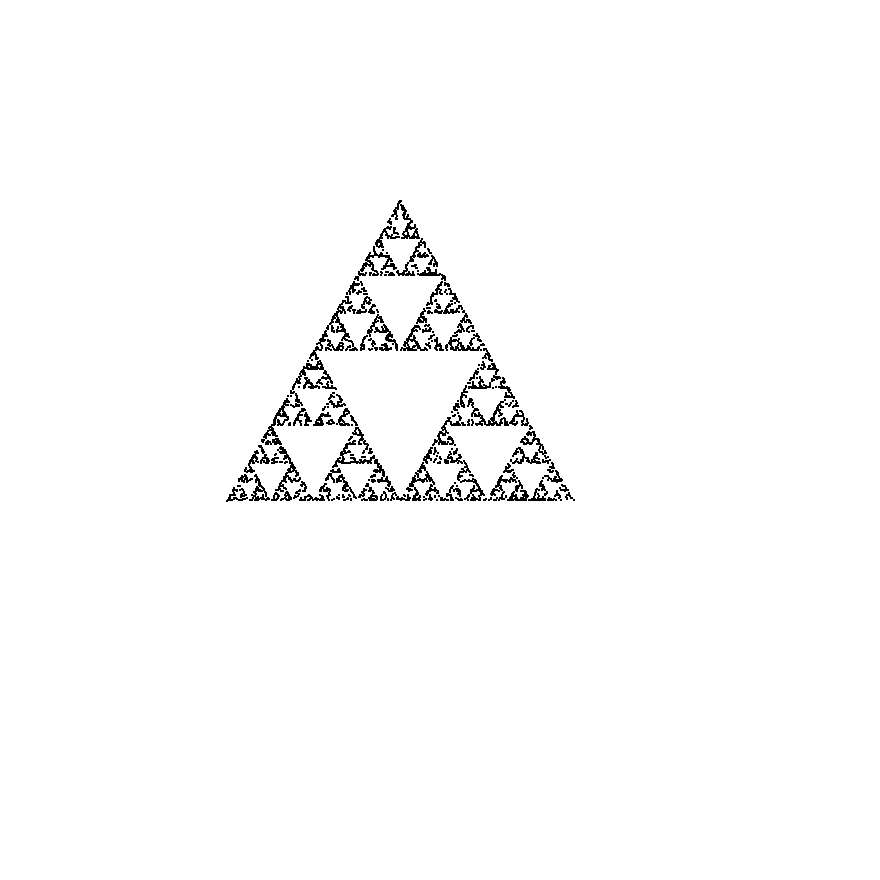
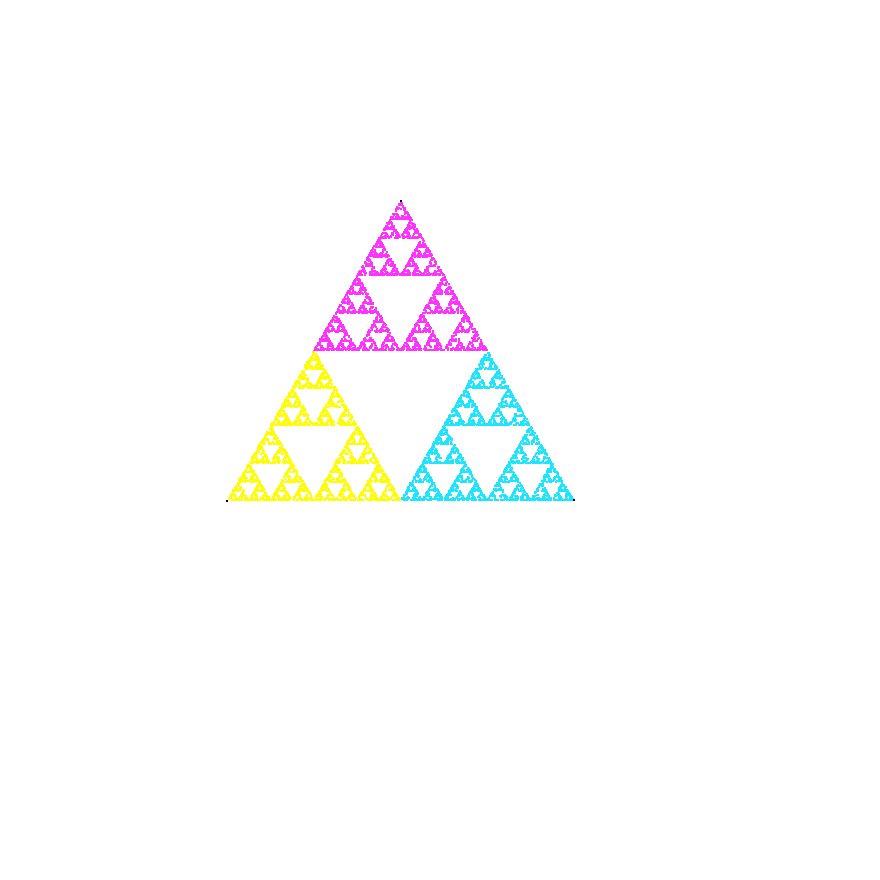
6/A in colors

Changed region(s): [[0.2455, 0.2148, 0.6443, 0.583]]

diff --git a/cviceni6/A.cpp b/cviceni6/A.cpp
@@ -8,15 +8,38 @@
 const int PIXEL_SIZE = 2;
 const int NUMBER_OF_LINES = 3;
 const double RADIUS = 200;
-const double FRACTION = 0.5;
+const double FRACTION = 1 / 2.0;
 
-const int NUMBER_OF_ITERATIONS = 5000;
+const int NUMBER_OF_ITERATIONS = 10000;
 
 const double IMAGE_SIZE = RADIUS*2*PIXEL_SIZE;
 const double IMAGE_PIXEL_SIZE = IMAGE_SIZE*1.1;
 const double MIDDLE = IMAGE_SIZE/2;
 
 using Point =std::pair<double,double>  ;
+
+
+const char *colors[] = { // colors to pick from
+	"000000", "FFFF00", "1CE6FF", "FF34FF", "FF4A46", "008941", "006FA6", "A30059",
+	"FFDBE5", "7A4900", "0000A6", "63FFAC", "B79762", "004D43", "8FB0FF", "997D87",
+	"5A0007", "809693", "FEFFE6", "1B4400", "4FC601", "3B5DFF", "4A3B53", "FF2F80",
+	"61615A", "BA0900", "6B7900", "00C2A0", "FFAA92", "FF90C9", "B903AA", "D16100",
+	"DDEFFF", "000035", "7B4F4B", "A1C299", "300018", "0AA6D8", "013349", "00846F",
+	"372101", "FFB500", "C2FFED", "A079BF", "CC0744", "C0B9B2", "C2FF99", "001E09",
+	"00489C", "6F0062", "0CBD66", "EEC3FF", "456D75", "B77B68", "7A87A1", "788D66",
+	"885578", "FAD09F", "FF8A9A", "D157A0", "BEC459", "456648", "0086ED", "886F4C",
+
+	"34362D", "B4A8BD", "00A6AA", "452C2C", "636375", "A3C8C9", "FF913F", "938A81",
+	"575329", "00FECF", "B05B6F", "8CD0FF", "3B9700", "04F757", "C8A1A1", "1E6E00",
+	"7900D7", "A77500", "6367A9", "A05837", "6B002C", "772600", "D790FF", "9B9700",
+	"549E79", "FFF69F", "201625", "72418F", "BC23FF", "99ADC0", "3A2465", "922329",
+	"5B4534", "FDE8DC", "404E55", "0089A3", "CB7E98", "A4E804", "324E72", "6A3A4C",
+	"83AB58", "001C1E", "D1F7CE", "004B28", "C8D0F6", "A3A489", "806C66", "222800",
+	"BF5650", "E83000", "66796D", "DA007C", "FF1A59", "8ADBB4", "1E0200", "5B4E51",
+	"C895C5", "320033", "FF6832", "66E1D3", "CFCDAC", "D0AC94", "7ED379", "012C58"
+};
+
+std::vector<std::string> indexcolors(colors, colors + sizeof(colors) / sizeof(colors[0]) ); // definition
 
 void put_pixel(cairo_t *cr, int x, int y, double r, double g, double b){
 	cairo_set_source_rgb (cr, r, g, b);
@@ -43,6 +66,12 @@ std::vector<Point> symetric_polygon(double number_of_sides, double radius ){
 }
 
 
+void get_color(double *r, double *g, double *b, std::string color){
+	*r = std::stoi(color.substr(0,2),nullptr,16) / 256.0;
+	*g = std::stoi(color.substr(2,2),nullptr,16) / 256.0;
+	*b = std::stoi(color.substr(4,2),nullptr,16) / 256.0;
+}
+
 void chaos_game(cairo_t *cr, std::vector<Point> points, int iterations) {
 	std::vector<Point> tmp;
 	std::random_device rd;
@@ -54,14 +83,14 @@ void chaos_game(cairo_t *cr, std::vector<Point> points, int iterations) {
 
 	for (int i = 0; i < iterations; ++i)
 	{
-			Point direction = points[point_sel(gen)];
+			int rn = point_sel(gen);
+			Point direction = points[rn];
 			double dest_x = std::abs(p.first - direction.first) * FRACTION + std::min(p.first,direction.first) ;
 			double dest_y = std::abs(p.second - direction.second) * FRACTION + std::min(p.second,direction.second) ;
-			std::cout << p.first << ":" << p.second << "____" << direction.first << ":" << direction.second << "___" << dest_x << ":" << dest_y << std::endl;
-			//cairo_move_to (cr, p.first, p.second);
-			put_pixel(cr,dest_x,dest_y,0,0,0);
-//			cairo_line_to (cr, dest_x,dest_y);
-	//		cairo_stroke (cr);
+	//		std::cout << p.first << ":" << p.second << "____" << direction.first << ":" << direction.second << "___" << dest_x << ":" << dest_y << std::endl;
+			double r,g,b;
+			get_color(&r, &g, &b, indexcolors.at(rn+1));
+			put_pixel(cr,dest_x,dest_y,r,g,b);
 			p.first = dest_x;
 			p.second = dest_y;
 	}
@@ -69,6 +98,7 @@ void chaos_game(cairo_t *cr, std::vector<Point> points, int iterations) {
 
 int main(int argc, char const *argv[])
 {
+
 	std::vector<Point> points = symetric_polygon(NUMBER_OF_LINES,RADIUS);
 
 	cairo_surface_t *surface = cairo_image_surface_create (CAIRO_FORMAT_ARGB32, IMAGE_PIXEL_SIZE, IMAGE_PIXEL_SIZE);
@@ -76,7 +106,9 @@ int main(int argc, char const *argv[])
 	cairo_set_source_rgb (cr, 1, 1, 1);
 	cairo_paint(cr);
 	cairo_set_source_rgb (cr, 0, 0, 0);
+
 	chaos_game(cr, points, NUMBER_OF_ITERATIONS);
+
 	for (auto i = points.begin(); i != points.end(); ++i)
 	{
 		put_pixel(cr,i->first,i->second, 0,0,0);
